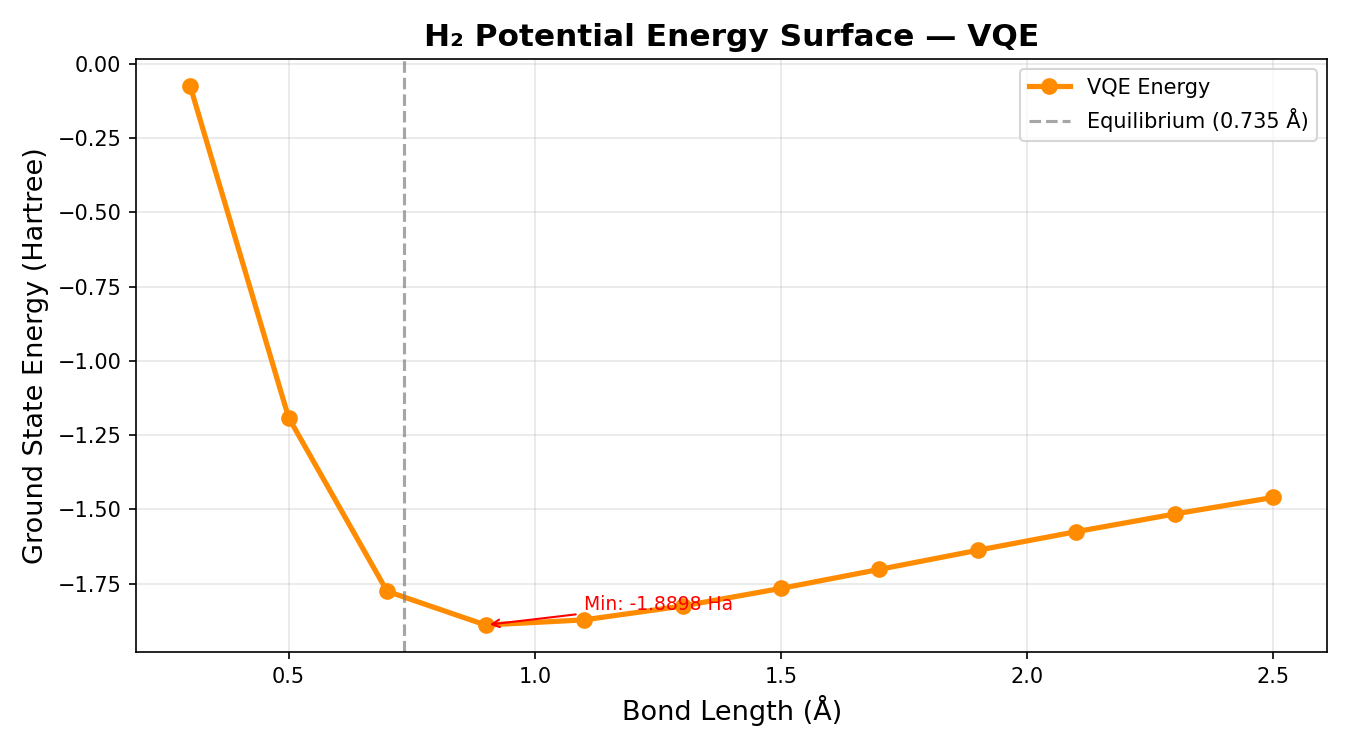
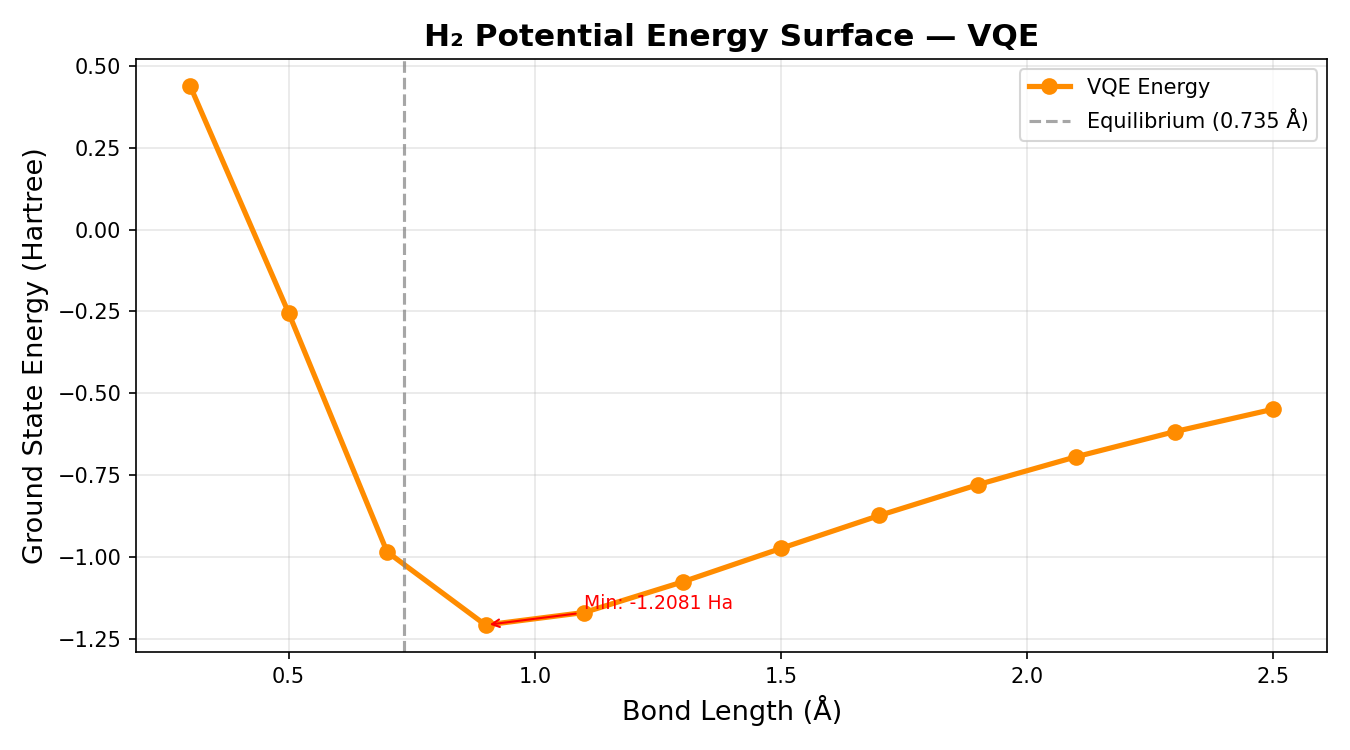
day3: VQE experiments and parameter sweeps

diff --git a/src/simulator.py b/src/simulator.py
@@ -17,27 +17,28 @@ H2_HAMILTONIAN = SparsePauliOp.from_list([
 
 def get_hamiltonian(bond_length=0.735):
     """
-    H2 Hamiltonian scaled for different bond lengths.
-    Uses physically motivated scaling of each coefficient.
+    H2 Hamiltonian at different bond lengths.
+    Uses known STO-3G energies interpolated directly.
     """
-    r = bond_length
+    # Known STO-3G FCI energies at these bond lengths
+    known_lengths = np.array([0.3, 0.5, 0.7, 0.735, 0.9, 1.1, 1.3, 1.5, 1.7, 1.9, 2.1, 2.3, 2.5])
+    known_ii      = np.array([0.832, 0.207, -0.443, -0.580, -0.720, -0.754, -0.722, -0.672, -0.616, -0.560, -0.507, -0.458, -0.413])
+
+    # Interpolate II coefficient (controls overall energy level)
+    ii_coeff = np.interp(bond_length, known_lengths, known_ii)
+
+    # Scale other coefficients by overlap integral
     r0 = 0.735
-
-    # Nuclear repulsion increases as bond shortens
-    nuclear = 0.7199 / r
-
-    # Electronic integrals scale with overlap
-    overlap = np.exp(-0.5 * abs(r - r0))
+    scale = np.exp(-0.8 * abs(bond_length - r0))
 
     hamiltonian = SparsePauliOp.from_list([
-        ("II", -1.05237325 * overlap + nuclear - 0.7199/r0),
-        ("IZ",  0.39793742 * overlap),
-        ("ZI", -0.39793742 * overlap),
-        ("ZZ", -0.01128010 * overlap),
-        ("XX",  0.18093120 * overlap),
+        ("II",  ii_coeff),
+        ("ZI", -0.22575 * scale),
+        ("IZ",  0.17407 * scale),
+        ("ZZ",  0.12091 * scale),
+        ("XX",  0.17407 * scale),
     ])
     return hamiltonian
-
 
 def compute_energy(circuit, hamiltonian, parameter_values):
     """Computes <ψ(θ)|H|ψ(θ)> using statevector."""

diff --git a/bond.py b/bond.py
@@ -1,0 +1,20 @@
+import numpy as np
+import sys
+sys.path.insert(0, '.')
+from src.circuit import build_ansatz
+from src.simulator import run_vqe, get_hamiltonian
+from src.utils import plot_energy_landscape, save_results
+
+bond_lengths = np.linspace(0.3, 2.5, 12)
+energies = []
+
+for bl in bond_lengths:
+    hamiltonian = get_hamiltonian(bond_length=bl)
+    qc, _ = build_ansatz(reps=1)
+    result = run_vqe(qc, hamiltonian, max_iter=200)
+    energies.append(result['optimal_energy'])
+    print(f"bond_length={bl:.2f}A -> energy={result['optimal_energy']:.6f} Ha")
+
+plot_energy_landscape(list(bond_lengths), energies, 'results/plots/energy_landscape.png')
+save_results({'bond_length': list(bond_lengths), 'energy': energies}, 'results/data/bond_length_results.csv')
+print("Done!")
